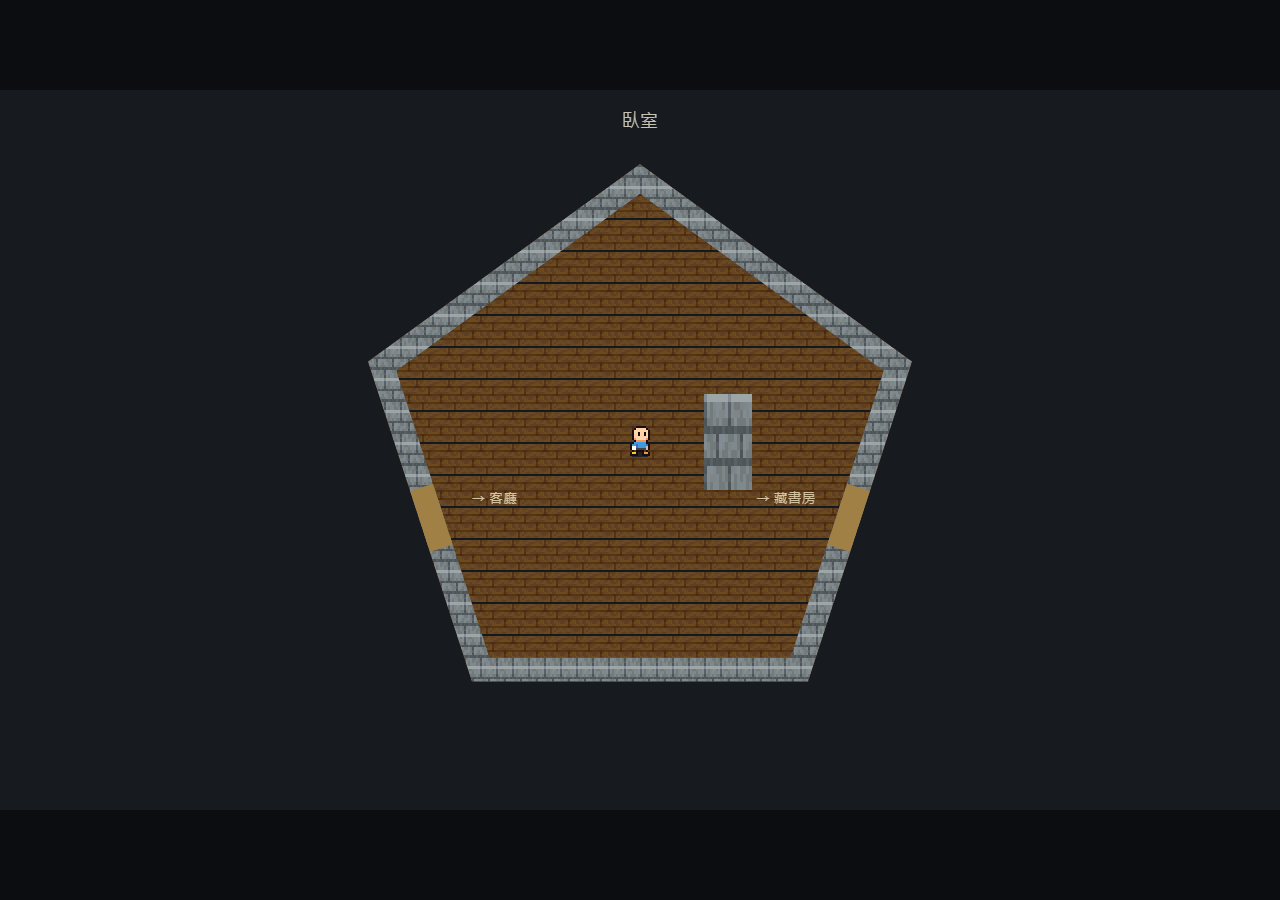
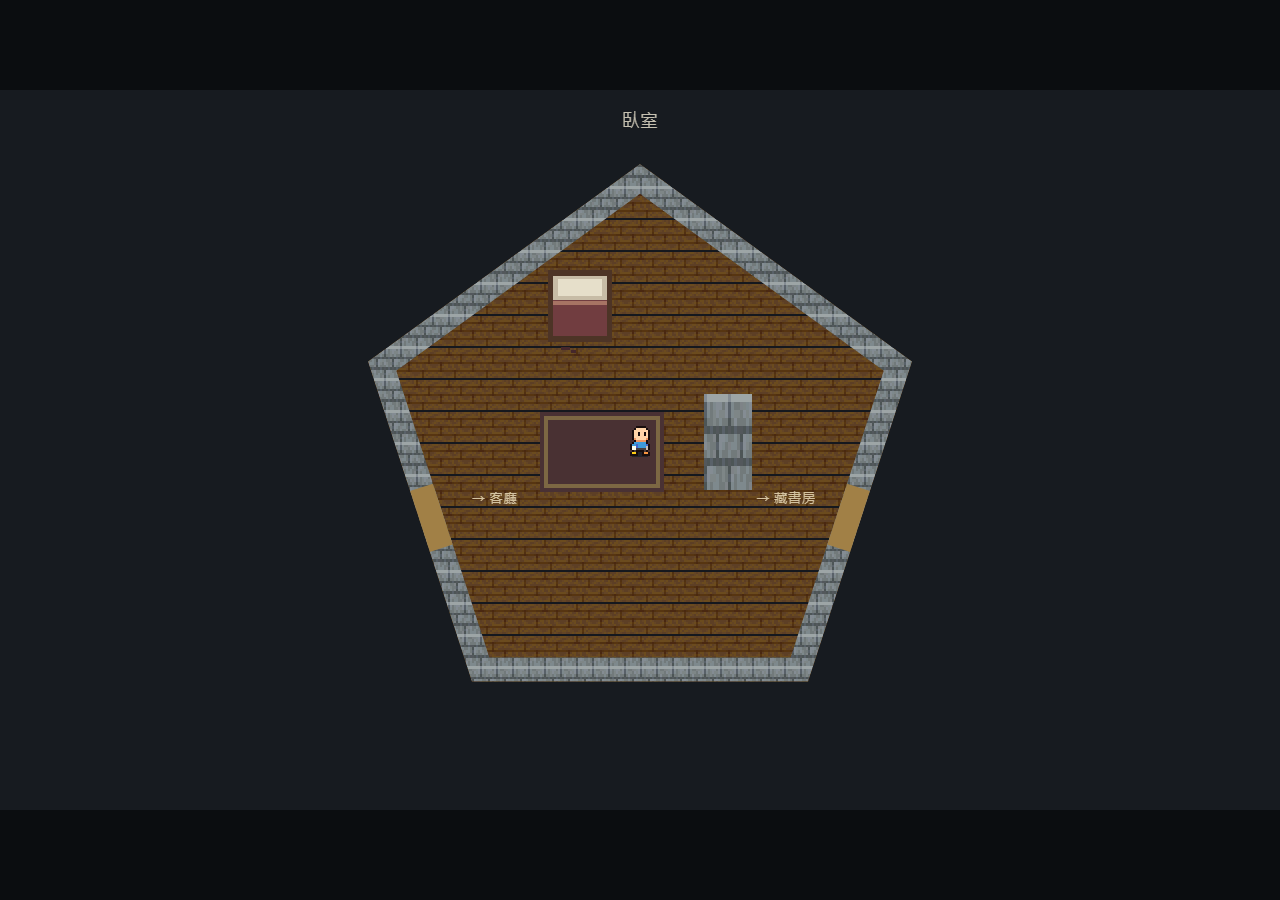
feat: 完成 Phase 6 物件調查與居家場景最終整合

Changed region(s): [[0.4062, 0.4356, 0.5312, 0.56], [0.4062, 0.28, 0.5, 0.3733]]

diff --git a/maps.js b/maps.js
@@ -46,10 +46,39 @@ globalThis.RoomMaps = (() => {
         top: Math.min(...this.vertices.map(p => p.y)), bottom: Math.max(...this.vertices.map(p => p.y)),
       });
       // Phase 3 的可見石造障礙；正式傢俱與深度排序在 Phase 4 加入。
-      this.obstacles = Object.freeze([Object.freeze({ x: 704, y: 352, width: 48, height: 48 })]);
-      this.objects = Object.freeze(this.obstacles.map(collision => Object.freeze({
+      const furniture = id === 'living' ? { role:'sofa',title:'舊沙發',text:'沙發坐墊凹下了一角，布面還留著一點溫度。',x:480,y:188,width:104,height:56 }
+        : id === 'bedroom' ? { role:'bed',title:'整理好的床',text:'被子折得很整齊。枕頭旁有幾道細長的抓痕。',x:548,y:180,width:64,height:72 }
+        : { role:'bookshelf',title:'藏書架',text:'書背都蒙著灰，只有一本書像是剛被放回去。',x:565,y:176,width:150,height:64 };
+      this.obstacles = Object.freeze([Object.freeze({ x: 704, y: 352, width: 48, height: 48 }),
+        Object.freeze({x:furniture.x,y:furniture.y,width:furniture.width,height:furniture.height})]);
+      this.objects = Object.freeze(this.obstacles.map((collision,index) => Object.freeze({
+        id:`${id}-${index}`,role:index===0?'pillar':furniture.role,
+        title:index===0?'冰冷的石柱':furniture.title,
+        text:index===0?'石柱背後刻著幾道深痕，像是有人曾在這裡等了很久。':furniture.text,
         collision, depth: collision.y + collision.height,
         draw(ctx) {
+          if (index === 1) {
+            const {x,y,width:w,height:h}=collision;
+            const rect=(color,rx,ry,rw,rh)=>{ctx.fillStyle=color;ctx.fillRect(rx,ry,rw,rh);};
+            rect('#4d3426',x,y,w,h);
+            if(furniture.role==='sofa'){
+              rect('#653b3e',x+6,y+4,w-12,16);
+              rect('#875758',x+12,y+23,(w-30)/2,h-29);
+              rect('#875758',x+w/2+3,y+23,(w-30)/2,h-29);
+              rect('#ac9665',x+4,y+4,4,h-8);rect('#ac9665',x+w-8,y+4,4,h-8);
+            }else if(furniture.role==='bed'){
+              rect('#c7bca6',x+5,y+6,w-10,h-12);rect('#e6dfca',x+10,y+9,w-20,17);
+              rect('#713d40',x+5,y+30,w-10,h-36);rect('#a77464',x+5,y+31,w-10,4);
+            }else{
+              for(let row=0;row<2;row++)for(let col=0;col<15;col++){
+                const colors=['#716c52','#75424a','#4f666c','#b09b67'];
+                rect(colors[(row+col)%4],x+7+col*9,y+7+row*28,6,18+(col%3)*2);
+              }
+              rect('#a48a51',x+4,y+30,w-8,4);rect('#a48a51',x+4,y+h-7,w-8,3);
+            }
+            rect('#45272b',x+13,y+h+5,9,3);rect('#45272b',x+23,y+h+8,5,3);
+            return;
+          }
           // 柱子上半部可遮擋角色，底座碰撞盒沿用前一步。
           ctx.drawImage(tileset, 16, 68, 16, 12, collision.x, collision.y - 48, collision.width, collision.height + 48);
           ctx.fillStyle = 'rgba(12, 14, 22, 0.25)';
@@ -113,6 +142,10 @@ globalThis.RoomMaps = (() => {
     ctx.clip();
     // 圖片右上角為不含洋紅透明底的木色紋理。
     tile(ctx, room, [96, 0, 16, 16]);
+    // 低矮地毯屬地板層，可步行通過；三房皆保留完整外輪廓。
+    ctx.fillStyle = '#593b3c'; ctx.fillRect(540, 322, 124, 80);
+    ctx.fillStyle = '#9a8050'; ctx.fillRect(544, 326, 116, 72);
+    ctx.fillStyle = '#593b3c'; ctx.fillRect(548, 330, 108, 64);
     ctx.fillStyle = 'rgba(20, 15, 23, 0.22)';
     ctx.fillRect(room.bounds.left, room.bounds.top, room.bounds.right - room.bounds.left, room.bounds.bottom - room.bounds.top);
 

diff --git a/interactions.js b/interactions.js
@@ -1,0 +1,52 @@
+'use strict';
+
+globalThis.InteractionSystem = (() => {
+  function findTarget(player, room) {
+    const reach = 32, p = player;
+    const box = player.direction === 'up' ? { x:p.x-p.halfWidth, y:p.y-p.halfHeight-reach, width:p.halfWidth*2, height:reach }
+      : player.direction === 'down' ? { x:p.x-p.halfWidth, y:p.y+p.halfHeight, width:p.halfWidth*2, height:reach }
+      : player.direction === 'left' ? { x:p.x-p.halfWidth-reach, y:p.y-p.halfHeight, width:reach, height:p.halfHeight*2 }
+      : { x:p.x+p.halfWidth, y:p.y-p.halfHeight, width:reach, height:p.halfHeight*2 };
+    const overlap = b => b.x < box.x+box.width && b.x+b.width > box.x && b.y < box.y+box.height && b.y+b.height > box.y;
+    const distance = b => player.direction === 'up' ? p.y-b.y-b.height : player.direction === 'down' ? b.y-p.y
+      : player.direction === 'left' ? p.x-b.x-b.width : b.x-p.x;
+    const candidates = room.objects.filter(o => o.title && o.text && overlap(o.collision)).sort((a,b)=>distance(a.collision)-distance(b.collision));
+    const target = candidates[0];
+    if (!target) return null;
+    if (room.obstacles.some(b => b !== target.collision && overlap(b) && distance(b) < distance(target.collision))) return null;
+    return target;
+  }
+
+  class Controller {
+    constructor(maps) { this.maps = maps; this.room = maps.currentMap.id; this.message = null; }
+    update(session) {
+      const pressed = session.input.consumeInteract();
+      if (this.room !== this.maps.currentMap.id) {
+        this.room = this.maps.currentMap.id; this.message = null;
+        return false;
+      }
+      if (!pressed) return false;
+      if (this.message) { this.message = null; return true; }
+      const object = findTarget(session.player, this.maps.currentMap);
+      if (!object) return false;
+      this.message = { id:object.id, title:object.title, text:object.text };
+      return true;
+    }
+    draw(ctx) {
+      if (!this.message) return;
+      ctx.save();
+      ctx.fillStyle = '#b9ac84'; ctx.fillRect(250, 560, 780, 136);
+      ctx.fillStyle = '#15191e'; ctx.fillRect(254, 564, 772, 128);
+      ctx.textAlign = 'left'; ctx.textBaseline = 'top';
+      ctx.font = 'bold 20px sans-serif'; ctx.fillStyle = '#eee5cf';
+      ctx.fillText(this.message.title, 278, 580);
+      ctx.font = '18px sans-serif';
+      const chars = Array.from(this.message.text);
+      for (let i=0;i<chars.length;i+=38) ctx.fillText(chars.slice(i,i+38).join(''),278,610+Math.floor(i/38)*24);
+      ctx.font = '14px sans-serif'; ctx.fillStyle = '#b9ac84';
+      ctx.fillText('空白鍵關閉', 908, 670);
+      ctx.restore();
+    }
+  }
+  return { findTarget, Controller };
+})();

diff --git a/player.js b/player.js
@@ -21,20 +21,36 @@ globalThis.PlayerSystem = (() => {
   class Input {
     constructor(target, document) {
       this.keys = new Set();
+      this.spaceDown = false;
+      this.interactQueued = false;
+      const clear = () => { this.keys.clear(); this.spaceDown = false; this.interactQueued = false; };
       target.addEventListener('keydown', event => {
-        if (!Object.hasOwn(bindings, event.code)) return;
         if (event.target?.isContentEditable || /^(INPUT|TEXTAREA|SELECT)$/.test(event.target?.tagName)) return;
+        if (event.code === 'Space') {
+          event.preventDefault();
+          if (!this.spaceDown && !event.repeat) this.interactQueued = true;
+          this.spaceDown = true;
+          return;
+        }
+        if (!Object.hasOwn(bindings, event.code)) return;
         event.preventDefault();
         this.keys.add(event.code);
       });
       target.addEventListener('keyup', event => {
+        if (event.code === 'Space') { this.spaceDown = false; return; }
         if (!Object.hasOwn(bindings, event.code)) return;
         this.keys.delete(event.code);
       });
-      target.addEventListener('blur', () => this.keys.clear());
+      target.addEventListener('blur', clear);
       document.addEventListener('visibilitychange', () => {
-        if (document.hidden) this.keys.clear();
+        if (document.hidden) clear();
       });
+    }
+
+    consumeInteract() {
+      const pressed = this.interactQueued;
+      this.interactQueued = false;
+      return pressed;
     }
 
     direction() {

diff --git a/main.js b/main.js
@@ -53,10 +53,12 @@ ctx.imageSmoothingEnabled = false;
 const playerSession = typeof PlayerSystem !== 'undefined' && typeof RoomMaps !== 'undefined'
   ? PlayerSystem.createSession(globalThis, document, RoomMaps.currentMap) : null;
 const portalController = playerSession && typeof PortalSystem !== 'undefined' ? new PortalSystem.Controller(RoomMaps) : null;
+const interactionController = playerSession && typeof InteractionSystem !== 'undefined' ? new InteractionSystem.Controller(RoomMaps) : null;
 
 function update(deltaSeconds) {
   if (playerSession) playerSession.update(deltaSeconds);
   if (portalController) portalController.update(playerSession);
+  if (interactionController) interactionController.update(playerSession);
 }
 
 function draw() {
@@ -64,6 +66,7 @@ function draw() {
   ctx.fillRect(0, 0, canvas.width, canvas.height);
   if (typeof RoomMaps !== 'undefined') {
     RoomMaps.draw(ctx, playerSession ? [playerSession.player] : []);
+    if (interactionController) interactionController.draw(ctx);
     return;
   }
   ctx.textAlign = 'center';

diff --git a/index.html b/index.html
@@ -9,6 +9,7 @@
   <script src="maps.js" defer></script>
   <script src="player.js" defer></script>
   <script src="portals.js" defer></script>
+  <script src="interactions.js" defer></script>
   <script src="main.js" defer></script>
 </head>
 <body>

diff --git a/TEST.md b/TEST.md
@@ -219,3 +219,49 @@
 | V21 | - 物件互動：面向 NPC 或可調查物件並按下空白鍵時，能正確觸發對話或事件。 | 未實作：空白鍵面向物件調查待Phase 6。 |
 
 角色風格補充段落：素材像素測試與四向動畫回歸通過；原正面與背面遮臉依規定分離。
+
+
+## Phase 6：物件調查及全專案最終回歸
+- 使用者已確認Phase 5無誤，包含先前保留的五/六邊形房間檢查；本步新互動與最終美術仍待使用者試玩。
+- TDD紅燈提交a38b5a5：新九項全部失敗（缺interactions.js及HTML串接），commit後才實作。初版及最後Node測試42/42通過（前33項+本步9項），Python素材逐像素1/1通過，沒有修改任何既有功能測試。
+- 新九項：短按佇列/長按/重複keydown/keyup與輸入框、失焦/hidden清空、四向前方與背向/遠處/側邊拒絕、最近目標與非互動障礙阻擋、對話按次開關及重入、切圖清除對話與舊佇列、對話文字/關閉提示與關閉不畫、三房傢俱/合法範圍/共用碰撞、實際HTML/main串接。
+- 實作：Input獨立spaceDown與interactQueued，不將Space加入方向鍵集合；短按在RAF間也保留一次，長按不重複。32像素前方AABB延伸自腳部外緣，只選當前room內最近的有標題/文字物件，被更近非互動障礙擋住則不觸發。對話支援空白鍵關閉，切房丟棄前房對話與排隊的互動。
+- 地圖整合：各房在原柱子之外加入沙發(480,188,104,56)、床(548,180,64,72)、書架(565,176,150,64)，傢俱碰撞/排序/調查共用位置。素材仍讀原tileset鋪地與石牆，新增Canvas像素傢俱採素材暖褐/暗紅/灰綠色盤，地毯與暗紅痕跡及物件短文提供居家恐怖暗示；沒有新增任務、背包或外部素材。
+- Chrome獨立無頭模式：設定環境NODE_PATH後依序執行tools/verify-phase2.cjs、verify-phase3.cjs、verify-phase4.cjs、verify-phase5.cjs、verify-phase6.cjs，本輪全部一次通過，無JavaScript錯誤。
+- Step 0：文件原文保護、21項對照、階段流程重跑通過。VERIFY保留上輪授權角色風格段落，剝除該精確段後原始SHA-256仍一致。
+- Phase 1：全部五項迴圈測試重跑；Chrome重新載入入口並檢查解析度與大小視窗置中。刷新率/失焦/hidden為模擬事件，沒有聲稱人工多螢幕與視窗切換測試。
+- Phase 2：三房幾何/裁切/單房渲染回歸；像素抽樣越界0、洋紅污染0、解析度1280×720及小視窗800×450置中。
+- Phase 3：三房共24種鍵盤輸入/放鍵停止、48方向大位移與斜牆/角落/柱子滑動回歸；新增傢俱亦納入room.obstacles接受掃掠測試。
+- Phase 4：四向多影格、停止朝向及正/背面來源、柱前/柱後遮擋與素材逐像素回歸通過；既有採樣腳本歷史時序敏感限制仍見Phase 5紀錄，本輪未發生。
+- Phase 5：鍵盤全程客廳→臥室→藏書房→臥室→客廳回歸通過，門位置/安全出生/持續按住不彈回/門後單房視野皆正常。
+- Phase 6：Chrome透過真正keyboard從初始位置走至沙發/床/書架前，再按Space開啟物件對話，按住350ms並送重複keydown仍維持同一對話，釋放再按關閉；背向與遠處不顯示對話。四方向及切圖清空等完整組合由單元測試涵蓋，未聲稱人工做過所有組合。
+- 目視已檢視evidence/phase6-living.png、phase6-bedroom.png、phase6-library.png及phase6-library-dialogue.png：房間類型由傢俱可辨、輪廓清楚，對話無文字溢出並有關閉提示。各房對話與房間共六張截圖保存，前階段證據更新為最終版本，歷史保留於Git。
+- 美術與手感屬主觀驗收，代理依BRIEF/VERIFY已補齊並目視檢查；尚待使用者確認Phase 6與最終居家恐怖暗示風格，不將自動測試當作使用者人工試玩。
+- VERIFY.md、BRIEF.md本輪不變；PLANS.md只改Phase 6勾選與追加紀錄。git diff --check通過。
+
+### 最終VERIFY逐條結果
+| 編號 | 驗收原文 | 結果與證據範圍 |
+| --- | --- | --- |
+| V01 | 1. 驗收標準：2D 俯視視角地圖與移動系統。 | 代理檢查通過：三房俯視、移動、碰撞、動畫、切換與互動均完成；最終使用者試玩待確認。 |
+| V02 | 2. 遊戲建置：展示方法要以純前端(HTML、CSS、JS)方式。 | 通過：純HTML/CSS/Vanilla JS、無外部遊戲引擎。Playwright/Python僅開發驗證使用，遊戲無須這些套件。 |
+| V03 | - 地圖為 2D 俯視視角地圖。 | 通過：三房地板/牆/傢俱皆俯視；Chrome截圖目視確認。 |
+| V04 | - 地圖有三張，形狀分別為正方形、正五邊形、正六邊形。遇到非直角的地方，並請使用數學向量畫出完美的邊界來做多邊形碰撞判定，並以此裁切、貼上像素素材以達到平整的形狀。 | 通過代理檢查：三種正多邊形、共用向量線段、裁切與碰撞；前步五/六邊形門後檢查已獲使用者確認，本輪回歸無變更。 |
+| V05 | - 正方形的右側的邊有門，可以連接到正五邊形底邊左側的邊；正五邊形的底邊右側的邊有門，可以連接到正六邊形的底邊左側的邊。 | 通過：指定四條雙向連接單元與Chrome鍵盤完整往返；新增傢俱後門路線仍通暢。 |
+| V06 | - 地圖風格：地圖以tilesetformattedupdate1.png的風格仿造，繪製出符合恐怖暗示元素的一般居家房間。正方形房間為客廳、正五邊形房間為臥室、正六邊形房間為藏書房 | 代理目視檢查通過、最終美術待使用者確認：原tileset地板/石牆、同色盤像素沙發/床/書架區分三房，暗紅痕跡與調查文字提供恐怖暗示。 |
+| V07 | - 按鍵輸入：按下 W/A/S/D 或方向鍵時，角色能向對應的上/左/下/右四個方向移動。 | 通過：三房共24種WASD/方向鍵Chrome鍵盤回歸，本步靠近傢俱亦使用實際keyboard。 |
+| V08 | - 斜向移動：同時按下兩個方向鍵時（如右+上），角色應正規化移動速度，避免斜向移動比單向移動快。 | 通過：單向/四斜向等速、相反鍵抵消與重複keydown不加速回歸。 |
+| V09 | - 停止動作：放開方向鍵時，角色應立即停止移動。 | 通過：Chrome放鍵停止；blur/hidden清空移動及新增互動佇列單元通過。 |
+| V10 | - 待機動畫：角色停止移動時，應保持最後移動方向的待機圖片。 | 通過：四向最後朝向待機，停止時回該方向第一影格；本輪Chrome回歸通過。 |
+| V11 | - 行走動畫：角色移動時，應播放對應方向（上/下/左/右）的行走循環動畫。 | 通過：四向0/1/2/1行走、每影格0.12秒；Chrome原正面與專用背面來源回歸通過。 |
+| V12 | - 圖層渲染：當角色走到物件（如樹木、柱子）後方時，角色應被物件遮擋；走到物件前方時，角色應遮擋物件。 | 通過：玩家/柱子/新增傢俱依底部Y排序；柱後完全遮擋、柱前可見的Chrome像素及目視回歸通過。 |
+| V13 | - 邊界碰撞：角色無法走出地圖設定的最大與最小邊界範圍。 | 通過：三房48方向極大位移、斜牆/角落、門出生位置回歸均合法。 |
+| V14 | - 障礙物碰撞：角色碰到牆壁、水域或不可通行的圖塊時會被阻擋，不會穿模。 | 通過：柱子與傢俱共用碰撞矩形，48方向掃掠納入新增傢俱且不穿透；場景不含水域。 |
+| V15 | - 碰撞平滑：當角色略微偏離通道但持續向前走時，應能平滑地沿著牆壁滑動，而不會完全卡死（依賴碰撞盒大小調整）。 | 通過：斜牆切向約30、柱邊切向20與窄通道前進160的測試回歸，不被輕微偏移卡死。 |
+| V16 | - 放置在地圖中心：相機視角應位於地圖的正中央，並確保整張地圖都在螢幕、視角範圍內，且確保玩家可以清楚看到所在地圖的形狀。 | 通過：房間中心固定(640,360)，整張輪廓完整可辨；Chrome各房目視與大小視窗回歸。對話開啟時有底部文字框，可按空白鍵關閉。 |
+| V17 | - 解析度：1280x720 | 通過：畫布內部1280×720；不同視窗只縮放顯示，保持16:9及置中。 |
+| V18 | - 視角與玩家：相機視角不會隨著玩家移動。 | 通過：角色移動不影響地圖頂點/相機；穿門後仍固定中心。 |
+| V19 | - 當玩家位於某張地圖時，玩家視角看不到其他地圖。 | 通過：任何時刻只畫currentMap及其物件；Chrome門後各房外側像素抽樣溢出0。 |
+| V20 | - 場景切換：玩家通過門後，應能順利載入並切換移動至門所對應的地圖。 | 通過：四條門連接、安全出生、防彈回與重新進入回歸，新房間碰撞/移動可用。 |
+| V21 | - 物件互動：面向 NPC 或可調查物件並按下空白鍵時，能正確觸發對話或事件。 | 通過代理檢查：四向前方32像素、最近物件及障礙遮擋單元通過；Chrome三房可調查傢俱空白鍵開/關、長按只一次、背向與遠處拒絕通過。 |
+
+角色風格補充：通過，Old hero.png原圖不變；正面原像素保留、僅背面臉部覆膚色，左右原側面與鏡像。

diff --git a/PLANS.md b/PLANS.md
@@ -11,7 +11,7 @@
 - [x] Phase 3：玩家實體與向量碰撞。Player 類別、WASD/方向鍵、斜向正規化、放鍵停止；以線段、法線與向量投影實作邊界及不可通行傢俱碰撞，採連續偵測或受控子步進避免穿透，驗證斜牆平滑滑動。
 - [x] Phase 4：動畫與深度排序。角色 Sprite 使用 Old hero.png；正面保留原圖，僅背面以膚色覆蓋臉部，左右採側面與鏡像。四向行走循環、最後方向待機與玩家/柱子底部 Y-Sort 已完成代理驗證，待使用者試玩。
 - [x] Phase 5：門與場景切換。客廳右邊↔臥室左下斜邊、臥室右下斜邊↔藏書房左下斜邊；門觸發、currentMap 切換、安全出生點與防止立即往返觸發。
-- [ ] Phase 6：物件互動。玩家前方短距離判定框或射線，空白鍵觸發可調查物對話或 console.log 事件；整合並逐條完成全部驗收。
+- [x] Phase 6：物件互動。玩家前方短距離判定框或射線，空白鍵觸發可調查物對話或 console.log 事件；整合並逐條完成全部驗收。
 
 ## 每步 TDD、建構與回歸流程
 1. 先在 PLANS.md 記錄本步變更、測試案例與操作流程，不更改 VERIFY.md。
@@ -253,3 +253,11 @@
 - 先紅燈：短按/長按/文字輸入、失焦/hidden、四向前方與背向/遠處/側邊拒絕、最近物件/不穿障礙、對話開關與重入、切圖清除、框內標題/文字/提示、三房傢俱與合法範圍、入口串接。
 - 建構無變更：python -m http.server 8000；Node全部單元測試與Python素材測試、Chrome Phase 2–5從頭回歸、本步Chrome四方向調查/長按/關閉與三房截圖。TEST.md逐條記錄全部VERIFY結果與尚未人工試玩的部分。
 - VERIFY.md與BRIEF.md本輪保持原檔；PLANS.md只改Phase 6勾選並追加執行紀錄。
+
+- 實作完成：空白鍵一次性佇列與失焦/隱藏清空；32像素前方判定框，依朝向從腳部外緣延伸；只取當前房間最近可調查物件，非互動障礙擋住時不穿透調查。
+- 對話：物件名稱、短文字、空白鍵關閉提示；同一次按下只開或關一次，長按不重觸發；房間切換後清空對話與尚未消費互動，原移動與門切換保持可用。
+- 居家最終整合：保留原圖地板/石牆與原柱子；以原素材暖褐/暗紅色盤繪製像素沙發、床及書架，三房各一件對應傢俱與地毯、暗紅痕跡及簡短調查文字。傢俱繪圖與不可通行碰撞共用矩形、納入Y-Sort；原柱子的測試參照與碰撞資料不變。
+- 驗證：Node 42/42（先前33項與本步9項）、Python素材1/1通過。Chrome Phase 2/3/4/5/6逐一重跑皆通過，本輪未修改任何已提交測試。六張Phase 6房間/對話截圖已保存，三房及藏書房對話已目視檢視。
+- 本步Chrome由鍵盤實際靠近沙發/床/書架，調查/長按/關閉/背向/遠處拒絕全通過；四方向與最近/遮擋等細項另由單元測試驗證。切圖清空以單元驗證，沒有聲稱人工走門並持續操作對話的全組合測試。
+- 最終21項VERIFY逐條結果與角色風格補充檢查寫入TEST.md。代理檢查通過不等於使用者最終驗收：Phase 6操作手感/最終居家恐怖暗示風格待使用者本輪確認；前五階段已由使用者逐步確認。
+- VERIFY.md與BRIEF.md本輪未修改。PLANS.md僅改Phase 6勾選並追加本步。完成本步後停下，不新增BRIEF以外功能。
